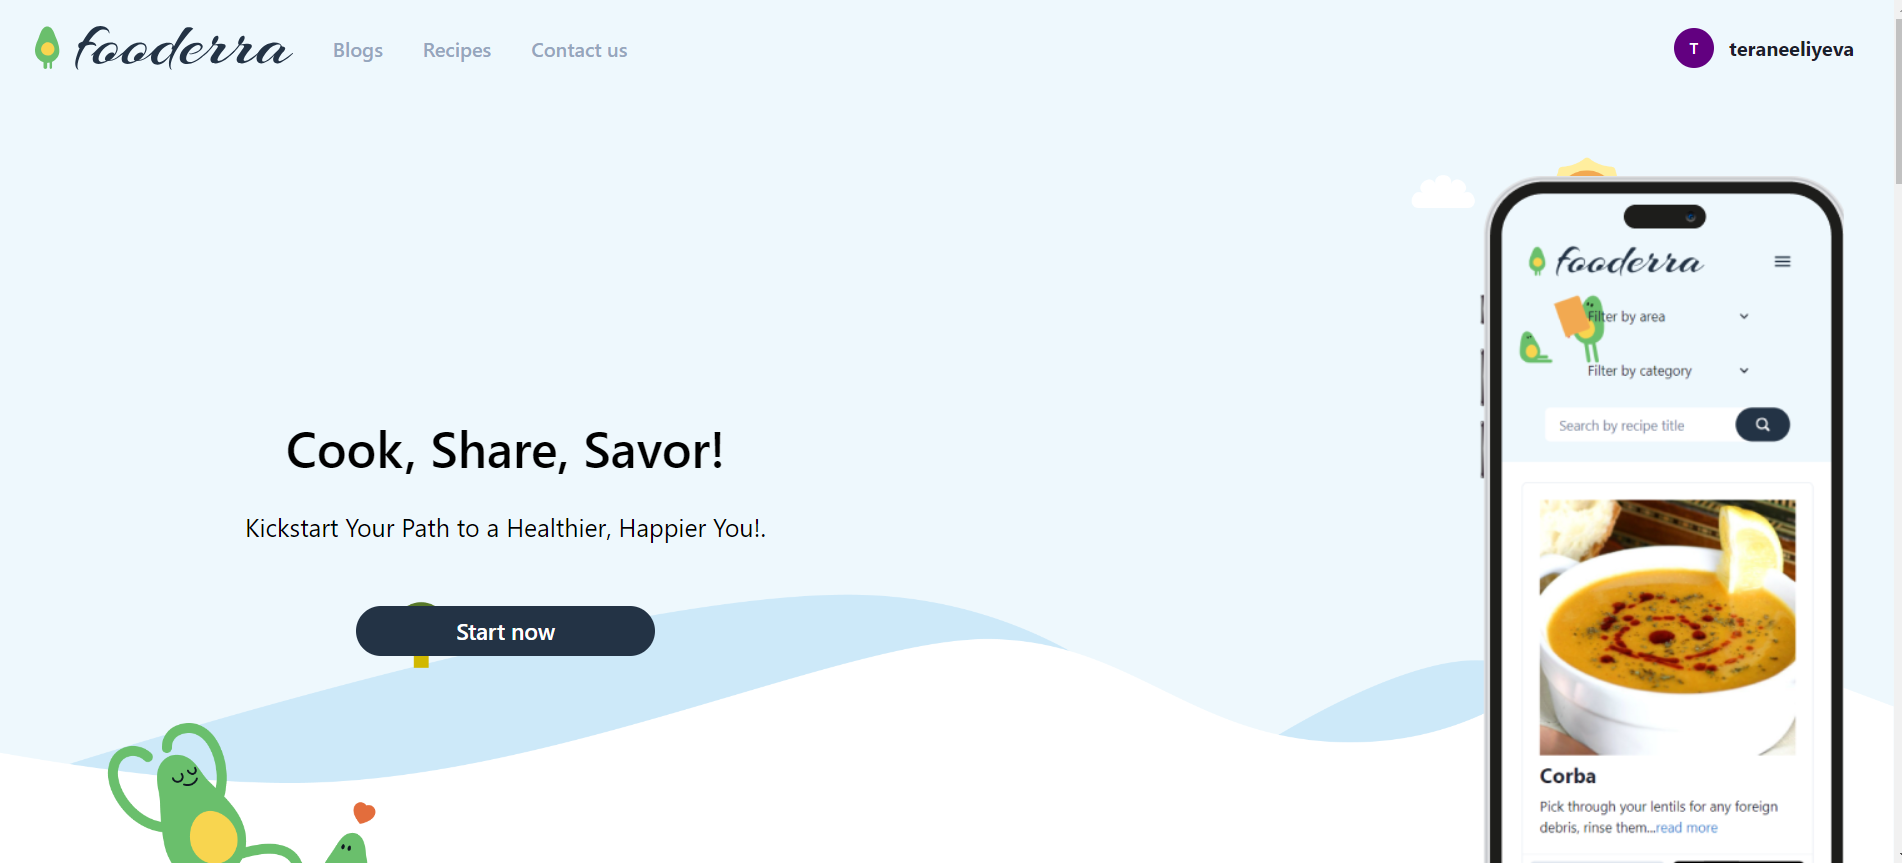
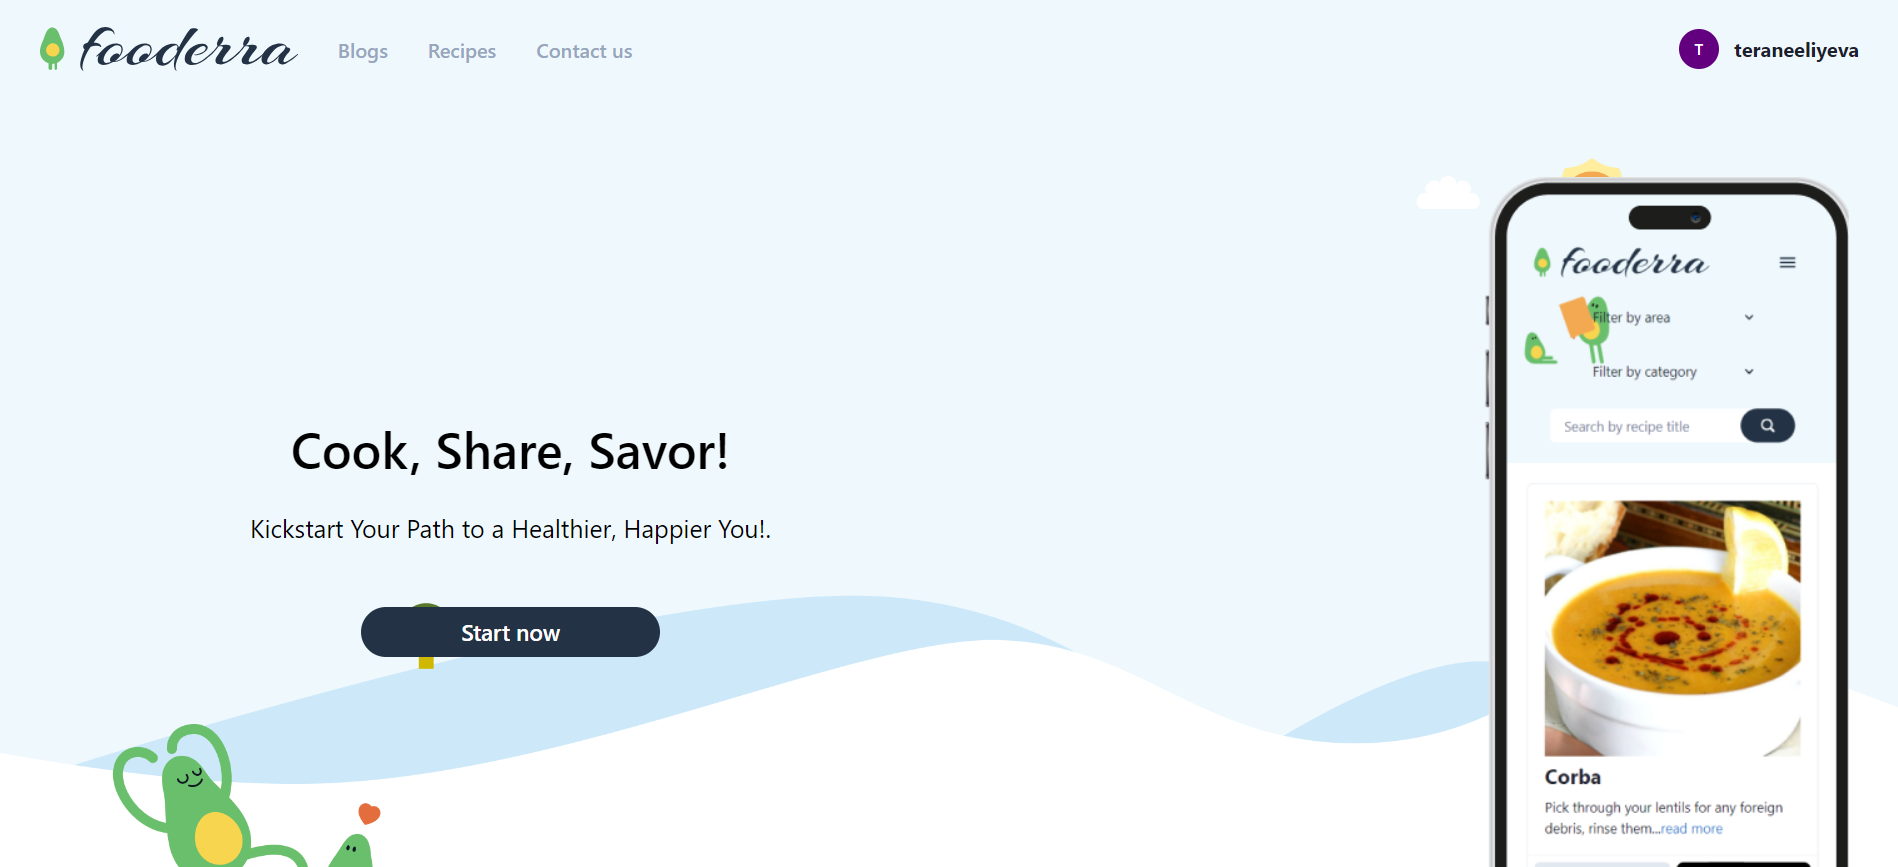
readme

diff --git a/README.md b/README.md
@@ -11,5 +11,4 @@ Users should be able to:
 
 ## Screenshot
 
-![homepage1](./public/images/Homepage1.png)
-![homepage2](./public/images/Homepage2.png)
+![homepage1](./public/images/MergedImages%20(1).png.png)
